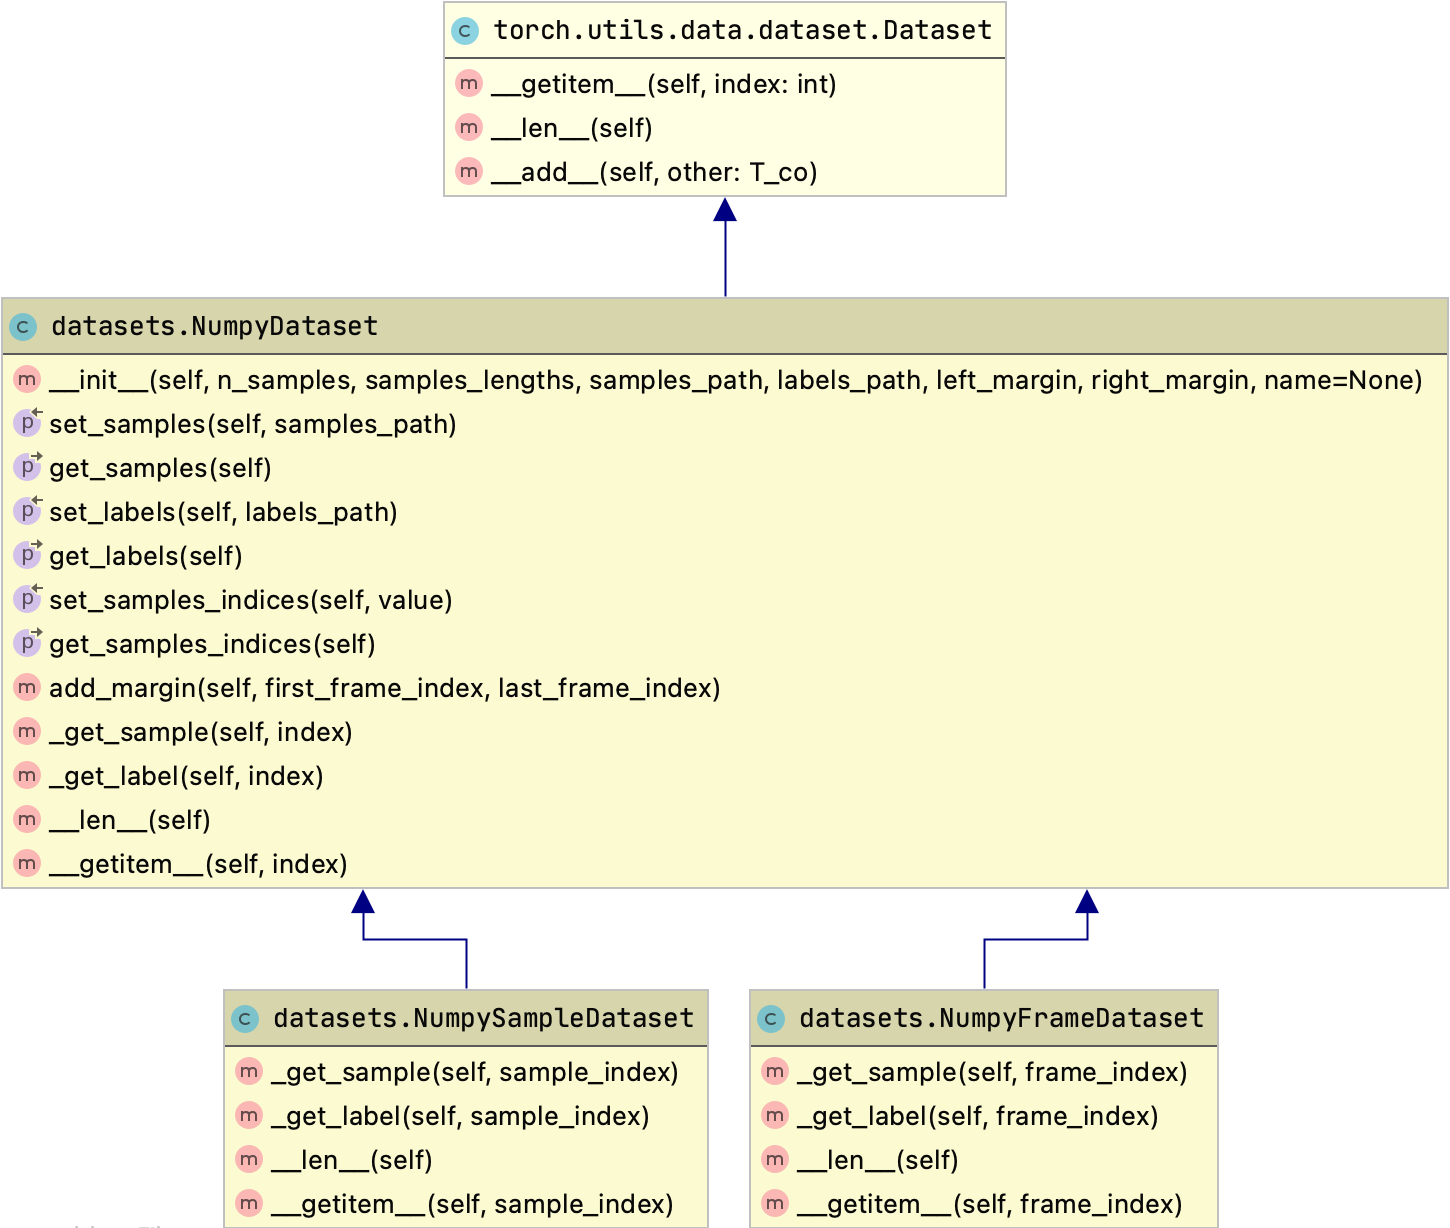
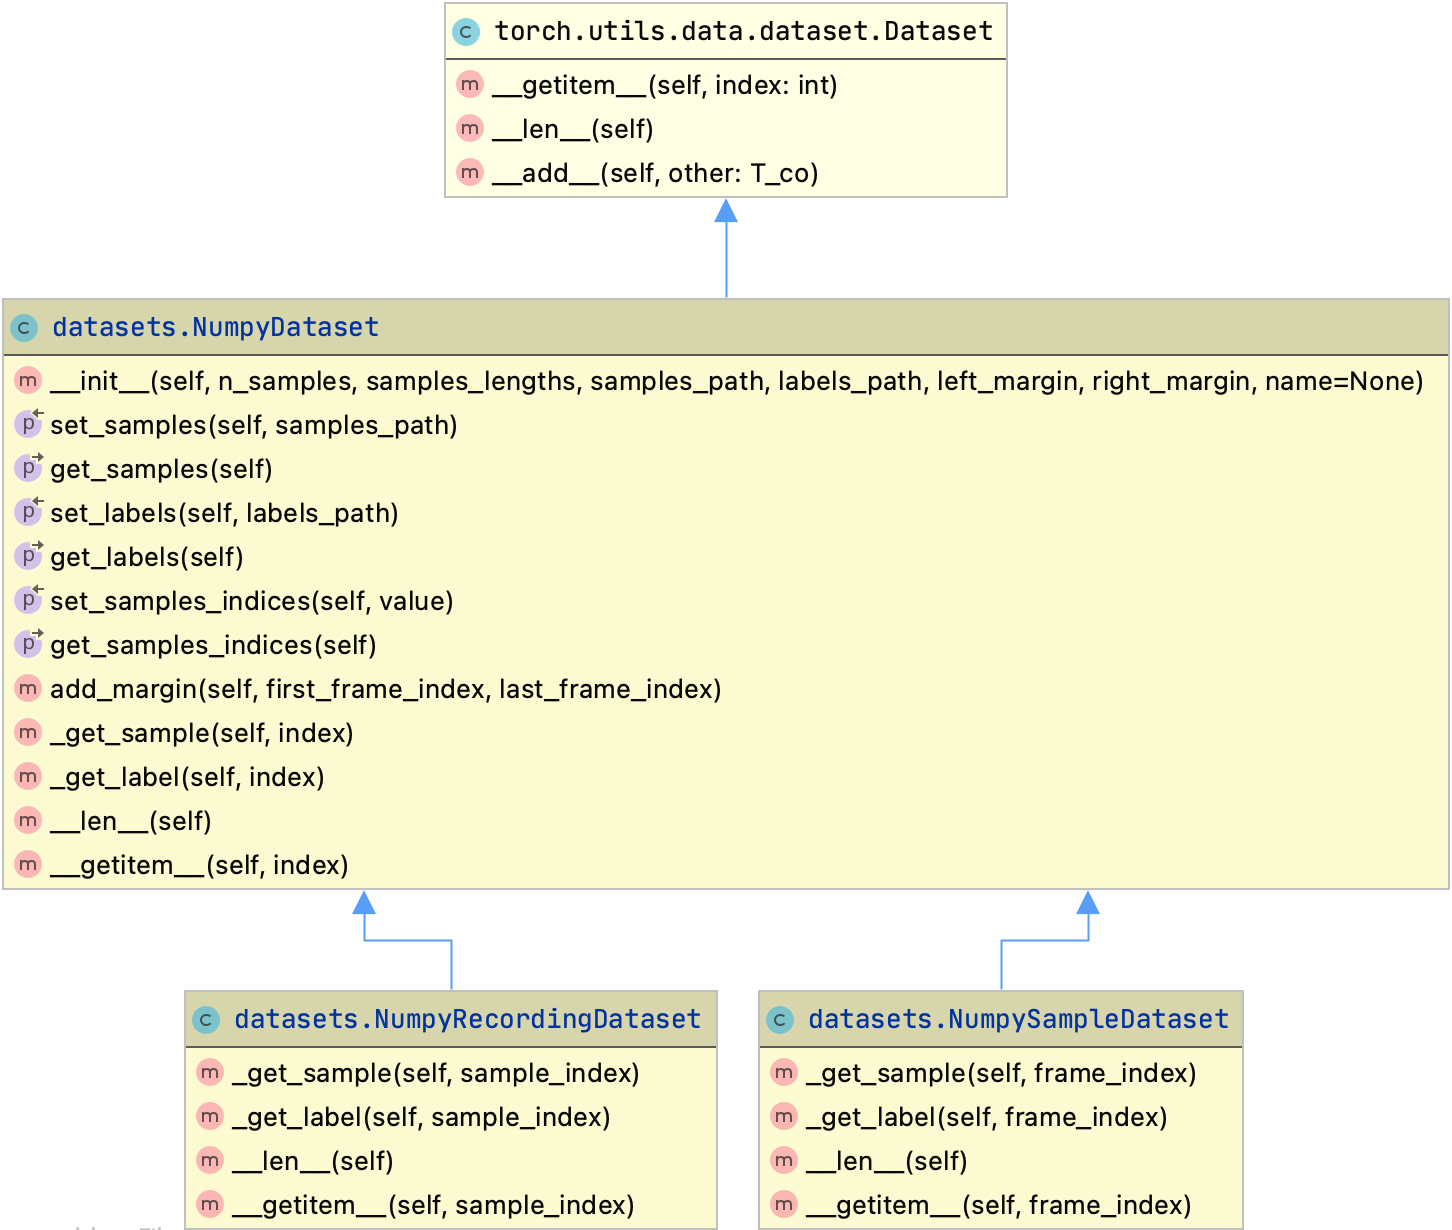
Add code highlight

diff --git a/Bachelor_thesis/train.py b/Bachelor_thesis/train.py
@@ -13,7 +13,7 @@ from collections import defaultdict
 from classifiers import FeedForwardNet
 
 from classifiers import Sequential
-from datasets import NumpySampleDataset, NumpyFrameDataset
+from datasets import NumpyRecordingDataset, NumpySampleDataset
 from files import DatasetInfoFile, SetInfoFile
 from data import FOUR_EMOTIONS_VERBOSE, THREE_EMOTIONS_VERBOSE, ALL_EMOTIONS_VERBOSE
 
@@ -355,13 +355,13 @@ def main(result_dir):
     n_features, n_classes, n_samples = DatasetInfoFile(info_path).read()
 
     train_dir = os.path.join(dataset_dir, "train")
-    train_dataset = prepare_dataset(train_dir, NumpyFrameDataset, left_margin, right_margin, name="trénovací sada")
+    train_dataset = prepare_dataset(train_dir, NumpySampleDataset, left_margin, right_margin, name="trénovací sada")
 
     val_dir = os.path.join(dataset_dir, "val")
-    val_dataset = prepare_dataset(val_dir, NumpySampleDataset, left_margin, right_margin, name="validační sada")
+    val_dataset = prepare_dataset(val_dir, NumpyRecordingDataset, left_margin, right_margin, name="validační sada")
 
     test_dir = os.path.join(dataset_dir, "test")
-    test_dataset = prepare_dataset(test_dir, NumpySampleDataset, left_margin, right_margin, name="testovací sada")
+    test_dataset = prepare_dataset(test_dir, NumpyRecordingDataset, left_margin, right_margin, name="testovací sada")
 
     test_datasets = [test_dataset]
 

diff --git a/Bachelor_thesis/datasets.py b/Bachelor_thesis/datasets.py
@@ -103,7 +103,7 @@ class NumpyDataset(Dataset):
         pass
 
 
-class NumpyFrameDataset(NumpyDataset):
+class NumpySampleDataset(NumpyDataset):
 
     def _get_sample(self, frame_index):
         # add margin
@@ -127,7 +127,7 @@ class NumpyFrameDataset(NumpyDataset):
         label = self._get_label(frame_index)
         return sample, label
 
-class NumpySampleDataset(NumpyDataset):
+class NumpyRecordingDataset(NumpyDataset):
 
     def _get_sample(self, sample_index):
         # add margin
